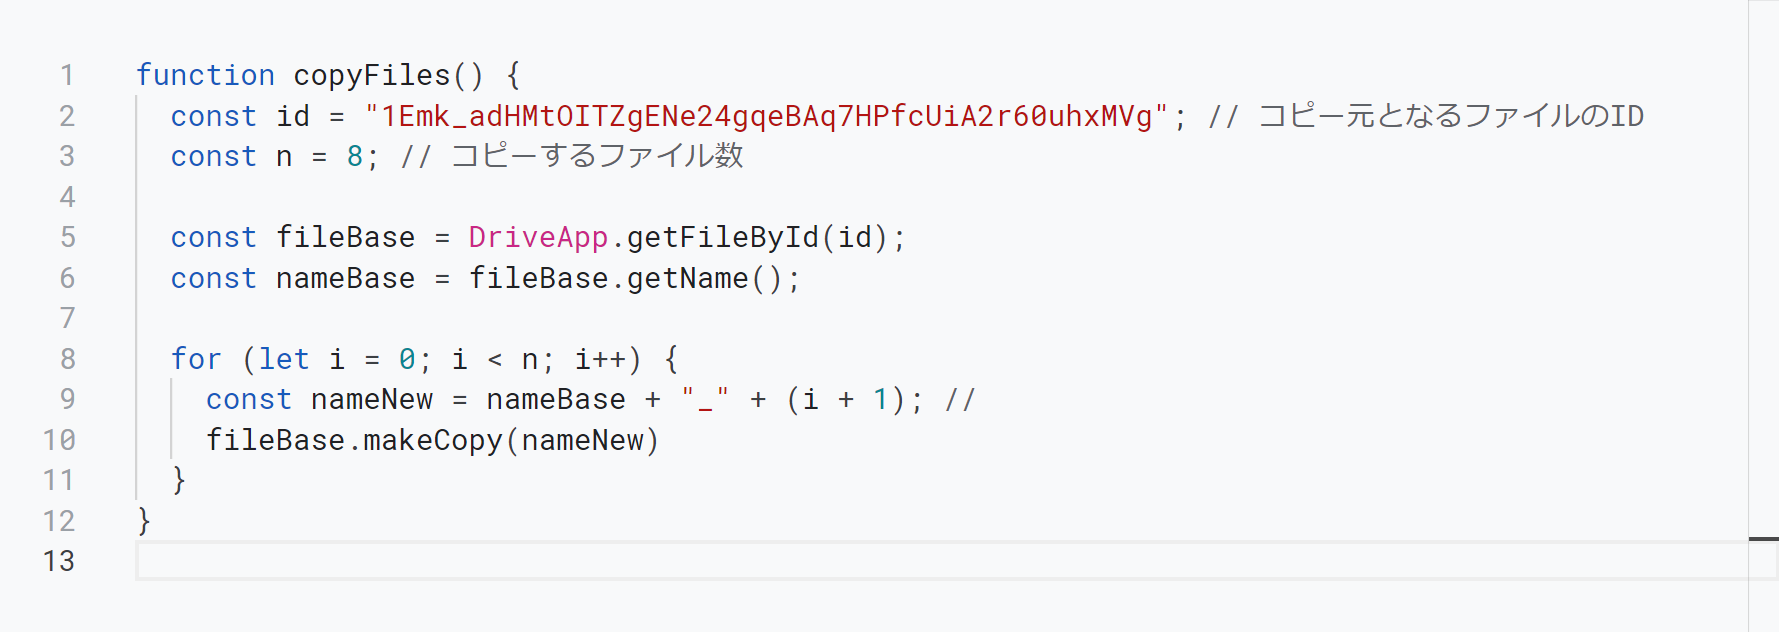
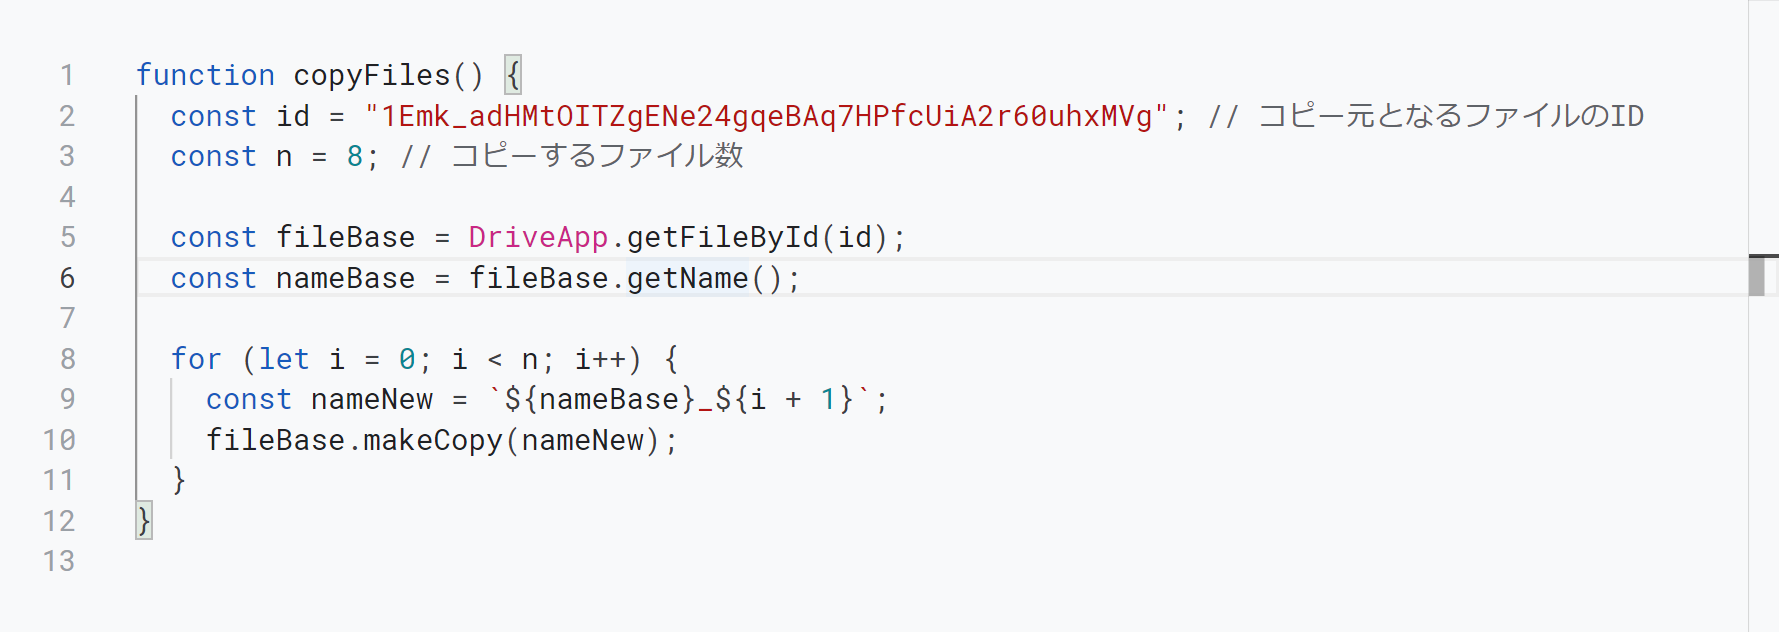
use template literal

diff --git a/articles/gas-copy/index.md b/articles/gas-copy/index.md
@@ -107,8 +107,8 @@ Googleドライブには，**簡単な操作でフォルダそのものを複製
       const nameBase = fileBase.getName();
 
       for (let i = 0; i < n; i++) {
-        const nameNew = nameBase + "_" + (i + 1); // 
-        fileBase.makeCopy(nameNew)
+        const nameNew = `${nameBase}_${i + 1}`;
+        fileBase.makeCopy(nameNew);
       }
     }
     ```
